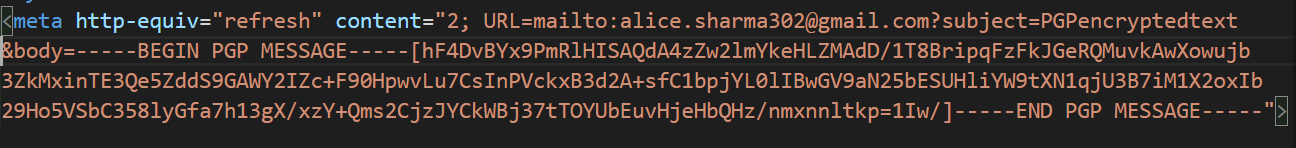
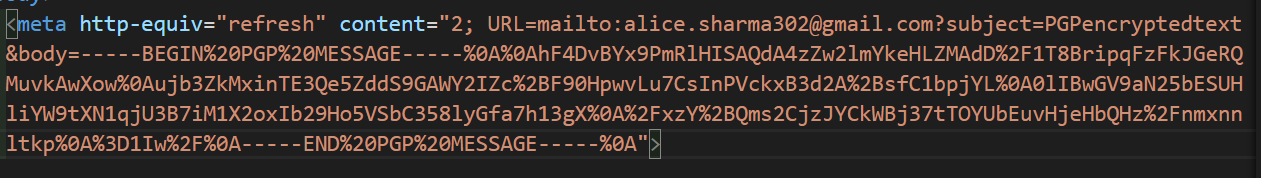
second attack

diff --git a/mailto-pgp_encrypted_message.html b/mailto-pgp_encrypted_message.html
@@ -19,7 +19,10 @@
 
   <body>
     <meta http-equiv="refresh" content="2; URL=mailto:alice.sharma302@gmail.com?subject=PGPencryptedtext
-    &body=-----BEGIN%20PGP%20MESSAGE-----%0A%0AhF4DvBYx9PmRlHISAQdA4zZw2lmYkeHLZMAdD%2F1T8BripqFzFkJGeRQMuvkAwXow%0Aujb3ZkMxinTE3Qe5ZddS9GAWY2IZc%2BF90HpwvLu7CsInPVckxB3d2A%2BsfC1bpjYL%0A0lIBwGV9aN25bESUHliYW9tXN1qjU3B7iM1X2oxIb29Ho5VSbC358lyGfa7h13gX%0A%2FxzY%2BQms2CjzJYCkWBj37tTOYUbEuvHjeHbQHz%2Fnmxnnltkp%0A%3D1Iw%2F%0A-----END%20PGP%20MESSAGE-----%0A">
+    &body=-----BEGIN%20PGP%20MESSAGE-----%0A%0AhF4DvBYx9PmRlHISAQdA4zZw2lmYkeHLZMAdD%2F1T8BripqFzFkJGeRQ
+    MuvkAwXow%0Aujb3ZkMxinTE3Qe5ZddS9GAWY2IZc%2BF90HpwvLu7CsInPVckxB3d2A%2BsfC1bpjYL%0A0lIBwGV9aN25bESUH
+    liYW9tXN1qjU3B7iM1X2oxIb29Ho5VSbC358lyGfa7h13gX%0A%2FxzY%2BQms2CjzJYCkWBj37tTOYUbEuvHjeHbQHz%2Fnmxnn
+    ltkp%0A%3D1Iw%2F%0A-----END%20PGP%20MESSAGE-----%0A">
 
     <div class="main-content">
       <h1>This is some message</h1>
